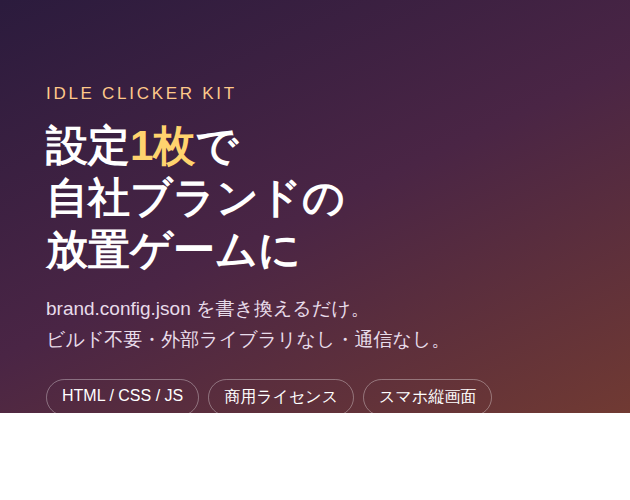
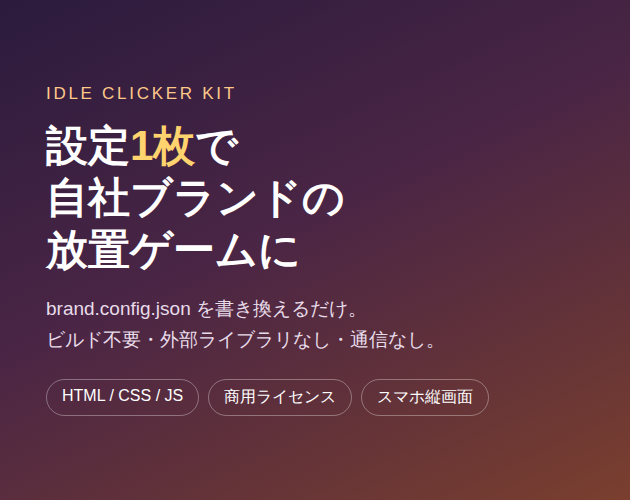
feat: give the Gumroad listing a cover, and stop the renderer shipping a dead band
The tags added earlier today put the product into Gumroad Discover. Discover
browse is a grid of tiles, so it has been showing a blank square to everyone the
index reaches: covers [], main_cover_id null, thumbnail_url null. The v2 API was
measured to have no route to set one (GET /covers is byte-identical to a path
that never existed; PUT cover_url is accepted-and-ignored exactly like a fake
parameter name), so the remaining step is one owner upload — now prepared, with
the file already rendered and committed.

Found while doing it: scripts/render-cover.mjs preferred a Chromium binary that
lays the page out 90px shorter than the screenshot it writes. The PNG has the
exact requested dimensions, so nothing caught it, and assets/itch-cover.png went
into a pending owner request with a white stripe across the bottom and its
feature chips clipped. Two laps called that request paste-ready; neither opened
the image. headless_shell renders the full window, so the preference is reversed,
the renderer now reads the PNG header back before reporting success, and both
covers are re-rendered.

The cover is registered in assets/listing/gumroad.ja.json and checked by
sync-listing's addressee terms, because on a Discover tile the picture is the
only copy a browsing buyer reads. It fired on its first run, against this
commit's own HTML comment for quoting a forbidden term.

Claude-Session: https://claude.ai/code/session_01HQKRQjVCs287R6qYHi18cX

diff --git a/assets/gumroad-cover.html b/assets/gumroad-cover.html
@@ -1,0 +1,46 @@
+<!doctype html><meta charset="utf-8">
+<!--
+  The Gumroad cover. Deliberately NOT assets/itch-cover.html reused at another size.
+
+  Two measured reasons, either one sufficient:
+
+  1. SHAPE. Gumroad Discover browse is a grid of 16:9 tiles; itch states 630x500.
+     Reusing the itch file means a rescale or a crop decided by Gumroad, and the
+     text in a small cover is exactly what a rescale destroys.
+  2. ADDRESSEE. assets/listing/gumroad.ja.json is branch A of the
+     product_form_vs_addressed_buyer constraint: the copy addresses someone who
+     builds and publishes their own game, and the itch cover leads with a phrase
+     on that file's forbidden list. A cover is copy the buyer reads before any
+     description, so it is checked by scripts/sync-listing.mjs checkAddressee
+     together with the name and the body.
+
+  Do not quote the forbidden terms in this file, even to explain them. This very
+  comment named one on its first draft and the check failed on it, correctly: the
+  checker reads the source, and it cannot tell an example from a slogan.
+-->
+<style>
+ /* The gradient is on html too, and the height is 100vh rather than 720px. Belt
+    and braces: the real cause of the 90px band on the first render was the
+    browser binary (see scripts/render-cover.mjs), and that is fixed there, but a
+    page whose background stops short of the canvas is how the stripe became
+    visible at all. This way a viewport that is not exactly --window-size loses
+    the composition, not the colour. */
+ html,body{margin:0;padding:0;height:100%}
+ html{background:#16203a}
+ body{width:100%;min-height:100vh;display:flex;flex-direction:column;justify-content:center;
+  font-family:"Noto Sans CJK JP","Noto Sans JP",sans-serif;
+  background:linear-gradient(155deg,#16203a 0%,#243a63 46%,#1f5f63 100%);color:#fff;
+  padding:0 92px;box-sizing:border-box}
+ .kicker{font-size:26px;letter-spacing:.2em;color:#8fe3d0;margin-bottom:30px}
+ h1{font-size:76px;line-height:1.22;margin:0 0 30px;font-weight:800;letter-spacing:-.01em}
+ h1 em{font-style:normal;color:#ffd36e}
+ code{font-family:"DejaVu Sans Mono",monospace;font-size:.82em;
+  background:#ffffff1a;border-radius:10px;padding:2px 12px}
+ p{font-size:31px;line-height:1.62;margin:0;color:#d9e3f2}
+ .row{display:flex;gap:14px;margin-top:44px;flex-wrap:wrap}
+ .chip{font-size:25px;border:2px solid #ffffff55;border-radius:999px;padding:11px 24px}
+</style>
+<div class="kicker">IDLE CLICKER GAME KIT &nbsp;/&nbsp; HTML &middot; CSS &middot; JS</div>
+<h1><code>brand.config.json</code> <em>1枚</em>で<br>あなたの作品になる</h1>
+<p>放置クリッカーのソース一式。題名・配色・数える単位・増やすもの・強化・到達演出まで、書き換えるのは設定ファイル1枚だけ。</p>
+<div class="row"><div class="chip">ビルド不要</div><div class="chip">依存ライブラリ 0</div><div class="chip">通信なし</div><div class="chip">商用可</div><div class="chip">スマホ縦画面</div></div>
